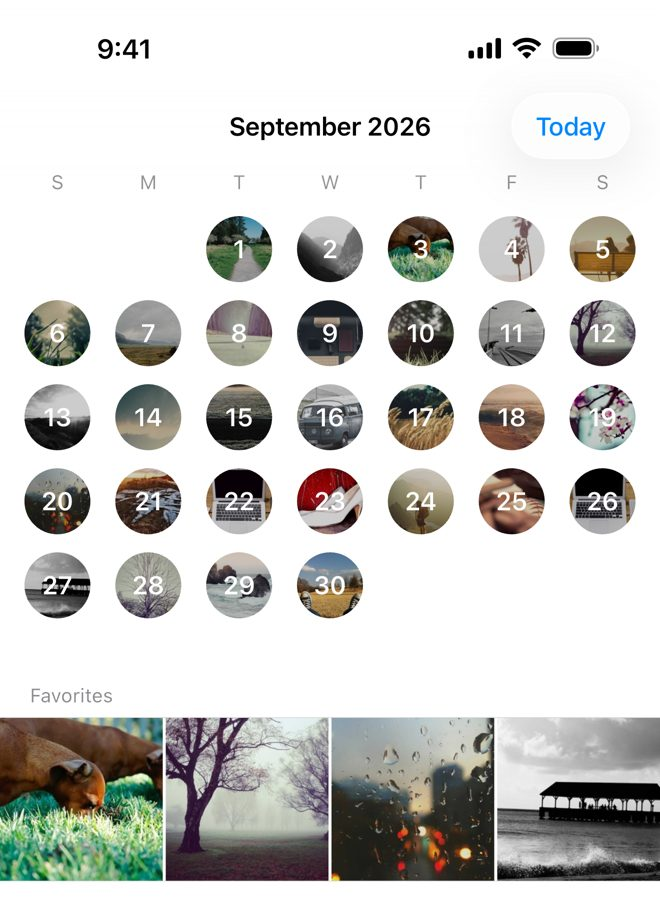
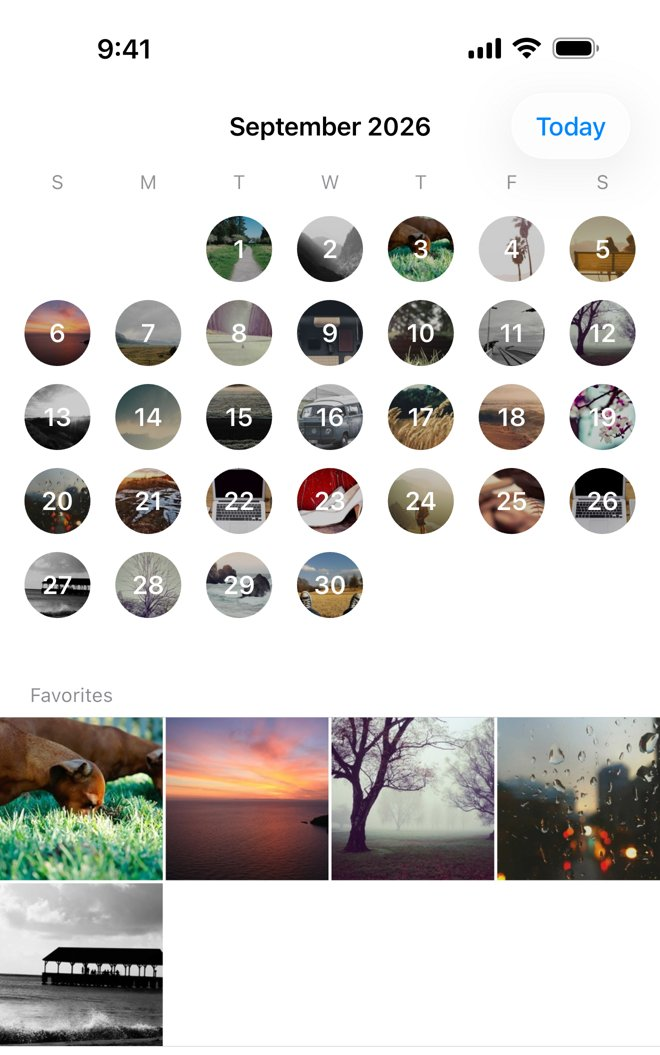
Landing: new screenshots (timeline first)

diff --git a/index.html b/index.html
@@ -49,7 +49,7 @@
 
   <section class="shots" aria-label="Screenshots">
     <img src="/img/01_calendar.jpg" alt="A month calendar where each date shows that day's photo">
-    <img src="/img/04_viewer.jpg" alt="A photo opened full screen" loading="lazy">
+    <img src="/img/02_timeline.jpg" alt="One day's photos grouped by the time they were taken" loading="lazy">
     <img src="/img/05_same_day.jpg" alt="The same date in earlier years" loading="lazy">
   </section>
 
